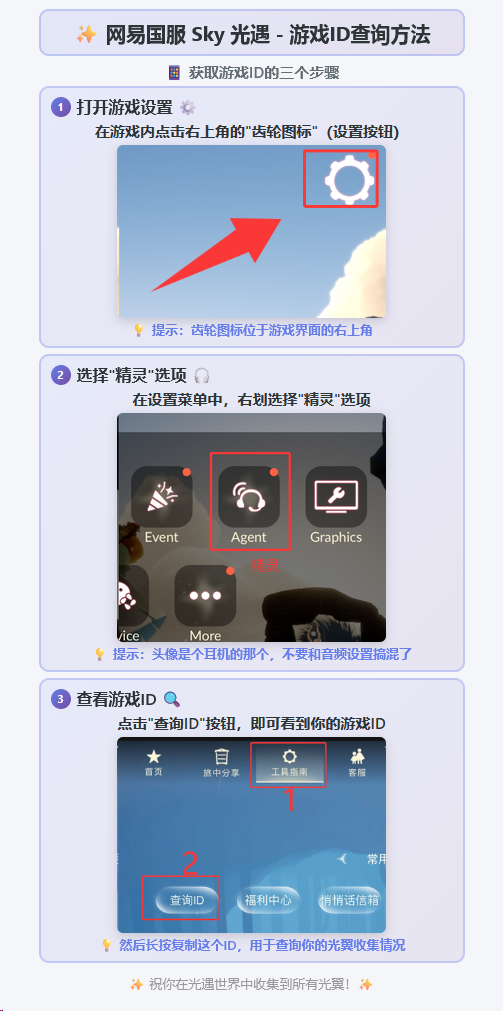
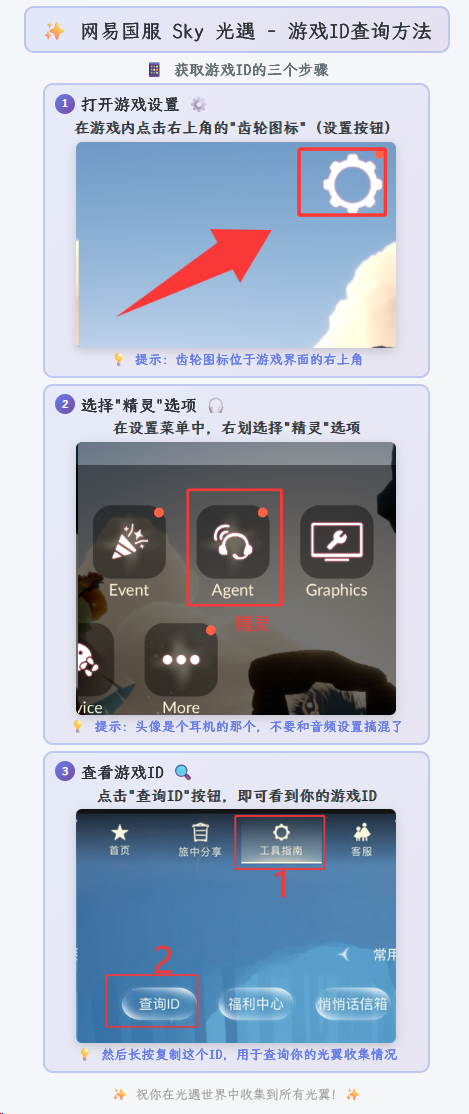
style: 教程页面引入思源字体，卡片缩窄 8% - tutorial.html 加载 LXGWWenKaiMono 字体，图片宽度 67%→88% - 三个步骤卡片宽度缩至 91% 并居中 - 更新截图 tutorial_20260614_html.png - 更新包名描述与版本号 beta.1→beta.2 Co-authored-by: opencode <opencode@anomaly.co>

diff --git a/assets/tutorial_20260614.html b/assets/tutorial_20260614.html
@@ -4,9 +4,13 @@
 <meta charset="UTF-8">
 <title>网易国服 Sky 光遇 - 游戏ID查询方法</title>
 <style>
+  @font-face {
+    font-family: 'LXGWWenKaiMono';
+    src: url('fonts/LXGWWenKaiMono-Regular.ttf') format('truetype');
+  }
   * { margin: 0; padding: 0; box-sizing: border-box; }
   body {
-    font-family: -apple-system, BlinkMacSystemFont, 'Segoe UI', 'Helvetica Neue', sans-serif;
+    font-family: 'LXGWWenKaiMono', -apple-system, BlinkMacSystemFont, 'Segoe UI', 'Helvetica Neue', sans-serif;
     background: #f5f6fa;
     width: 450px;
     margin: 0 auto;
@@ -34,7 +38,8 @@
     background: linear-gradient(135deg, rgba(102, 126, 234, 0.1), rgba(118, 75, 162, 0.1));
     border-radius: 10px;
     padding: 8px 10px;
-    margin-bottom: 6px;
+    width: 91%;
+    margin: 0 auto 6px;
     border: 2px solid rgba(102, 126, 234, 0.3);
   }
   .step-header {
@@ -71,7 +76,7 @@
   }
   .step-img {
     display: block;
-    width: 67%;
+    width: 88%;
     max-width: 333px;
     border-radius: 6px;
     box-shadow: 0 3px 10px rgba(0,0,0,0.15);
